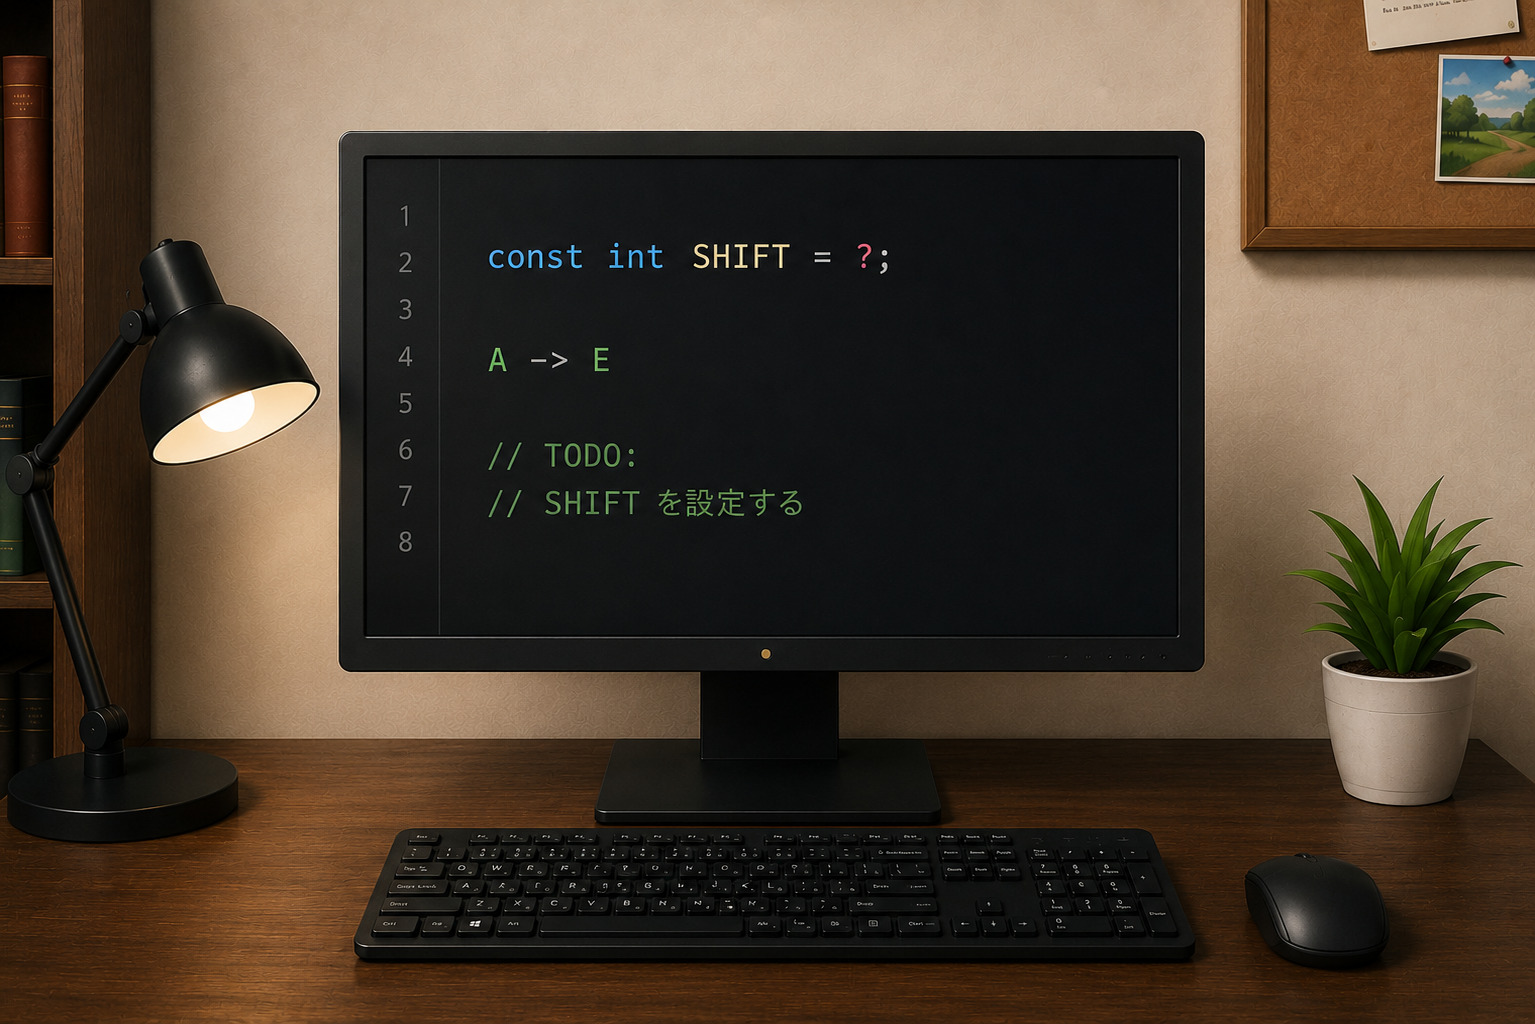
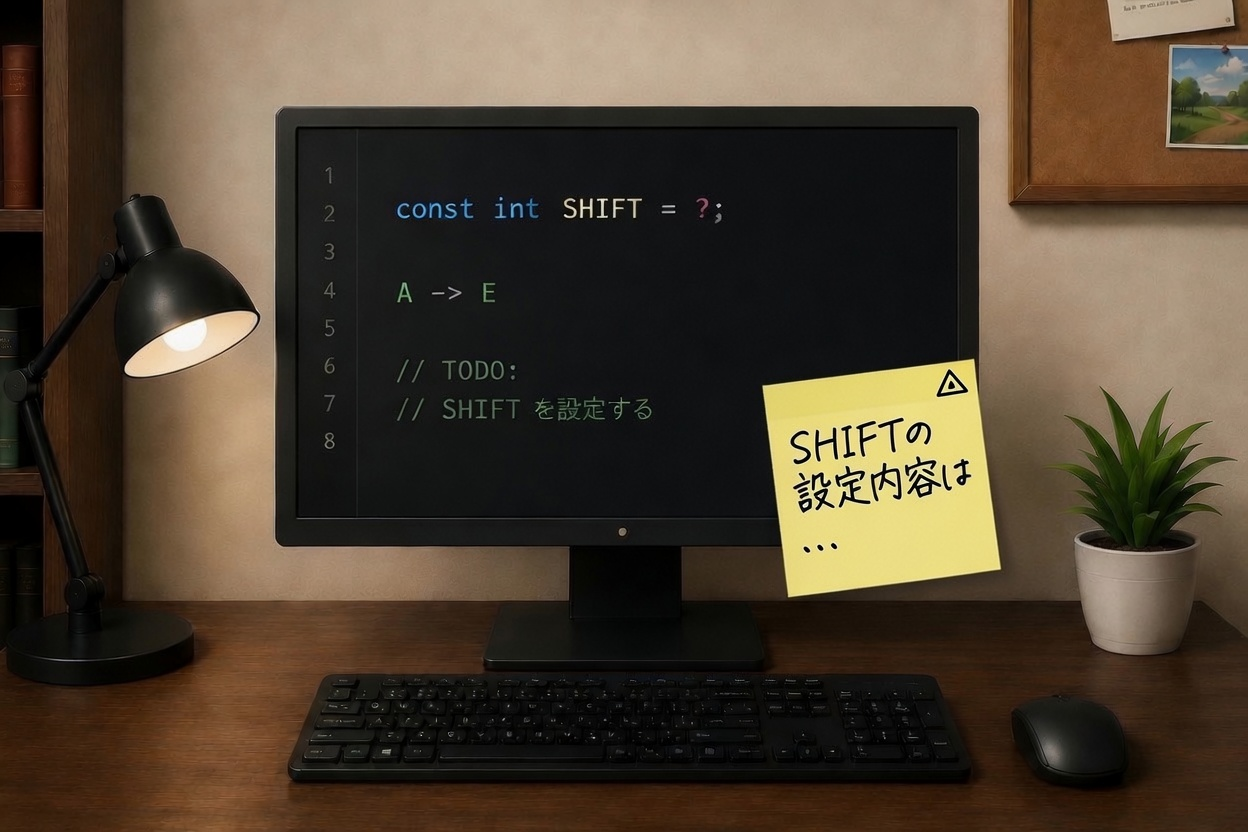
謎部分を追加

diff --git a/js/story.js b/js/story.js
@@ -16,6 +16,8 @@ let storyIndex = 0;
 function startGame() {
     preloadGameImages();
 
+    document.getElementById("startVoice").play();
+
     const startScreen = document.getElementById("startScreen");
     const storyScreen = document.getElementById("storyScreen");
   
@@ -30,7 +32,7 @@ function startGame() {
   
       storyIndex = 0;
       showStory();
-    }, 1200);
+    }, 2500);
 }
 
 function showStory() {
@@ -43,12 +45,16 @@ function showStory() {
   const right = document.getElementById("rightCharacter");
 
   if (data.leftImage) {
-    left.src = data.leftImage;
+    if (data.leftImage && left.src !== location.origin + "/" + data.leftImage) {
+        left.src = data.leftImage;
+    }
     left.classList.remove("hidden");
   }
 
   if (data.rightImage) {
-    right.src = data.rightImage;
+    if (data.rightImage && right.src !== location.origin + "/" + data.rightImage) {
+        right.src = data.rightImage;
+    }
     right.classList.remove("hidden");
   }
 
@@ -65,6 +71,26 @@ function showStory() {
 }
 
 function nextStory() {
+  if (currentEventStory) {
+    eventStoryIndex++;
+
+    if (eventStoryIndex >= currentEventStory.length) {
+      currentEventStory = null;
+
+      document.getElementById("storyScreen").classList.add("hidden");
+      document.getElementById("game").classList.remove("hidden");
+
+      if (afterEventStory) {
+        afterEventStory();
+        afterEventStory = null;
+      }
+
+      return;
+    }
+
+    showEventStory();
+    return;
+  }
     storyIndex++;
 
     if (storyIndex >= storyMessages.length) {
@@ -90,4 +116,48 @@ function nextStory() {
     }
   
     showStory();
+}
+
+let currentEventStory = null;
+let eventStoryIndex = 0;
+let afterEventStory = null;
+
+function startEventStory(storyId) {
+  currentEventStory = eventStories[storyId];
+  eventStoryIndex = 0;
+
+  afterEventStory = function() {
+    openPuzzle("circle1");
+  };
+
+  document.getElementById("game").classList.add("hidden");
+  document.getElementById("storyScreen").classList.remove("hidden");
+
+  showEventStory();
+}
+
+function showEventStory() {
+  const data = currentEventStory[eventStoryIndex];
+
+  document.getElementById("speakerName").textContent = data.speaker;
+  document.getElementById("storyMessage").textContent = data.text;
+
+  const left = document.getElementById("leftCharacter");
+  const right = document.getElementById("rightCharacter");
+
+  if (data.leftImage) {
+    left.src = data.leftImage;
+    left.classList.remove("hidden");
+  }
+
+  if (data.rightImage) {
+    right.src = data.rightImage;
+    right.classList.remove("hidden");
+  }
+
+  left.classList.remove("talking");
+  right.classList.remove("talking");
+
+  if (data.side === "left") left.classList.add("talking");
+  if (data.side === "right") right.classList.add("talking");
 }

diff --git a/js/data.js b/js/data.js
@@ -139,3 +139,45 @@ const storyMessages = [
         text: "それじゃがんばってね～"
     }
   ];
+
+//イベントデータ
+const eventStories = {
+    pcMemo: [
+      {
+        speaker: "ゴマニエル",
+        side: "left",
+        leftImage: "images/gimongoma.png",
+        text: "なんやこのメモ……？"
+      },
+      {
+        speaker: "トーコホッパー",
+        side: "right",
+        rightImage: "images/gimonhopper.png",
+        text: "これ、謎解きじゃない？"
+      },
+      {
+        speaker: "トーコホッパー",
+        side: "right",
+        rightImage: "images/hopper.png",
+        text: "ほら、裏になにか書いてあるよ！"
+      },
+    ]
+  };
+
+//謎データ
+const puzzles = {
+
+    circle1: {
+        image: "images/nazo1.png",
+        text: "4分の1に内接している長方形ABCDがある。Bが円の中心だとして長方形の対角線ACの長さは何センチか",
+        answer: "10"
+    },
+
+    password1: {
+        image: "images/password.png",
+        text: "4桁の数字を入力せよ。",
+        answer: "5910"
+    }
+
+};
+

diff --git a/style.css b/style.css
@@ -467,3 +467,45 @@ body {
 #tipsText {
   color: #ddd;
 }
+
+#answerArea{
+
+  margin-top:20px;
+
+  display:flex;
+  justify-content:center;
+  align-items:center;
+  gap:10px;
+}
+
+#answerInput{
+
+  width:250px;
+
+  padding:8px 12px;
+
+  font-size:20px;
+}
+
+#answerArea button{
+
+  padding:8px 18px;
+
+  font-size:18px;
+
+  cursor:pointer;
+}
+
+#modalMemoSpot {
+  position: absolute;
+
+  left: 60%;
+  top: 42%;
+
+  width: 250px;
+  height: 250px;
+
+  background: rgba(255,255,255,0.2);
+  border: 2px solid red;
+  cursor: pointer;
+}

diff --git a/js/puzzle.js b/js/puzzle.js
@@ -1,0 +1,29 @@
+let currentPuzzle = null;
+
+function openPuzzle(id){
+
+    currentPuzzle = puzzles[id];
+
+    showImage(
+        currentPuzzle.image,
+        currentPuzzle.text
+    );
+
+    document.getElementById("answerInput").value = "";
+}
+
+function checkAnswer(){
+
+    const input = document
+        .getElementById("answerInput")
+        .value
+        .trim();
+
+    if(input === currentPuzzle.answer){
+        alert("正解のようだ。回答の「10」は何かに使うのだろうか？");
+        closeModal();
+    }else{
+        alert("……答えが違うようだ");
+    }
+
+}

diff --git a/index.html b/index.html
@@ -65,10 +65,20 @@
 
   <div id="modal" class="hidden">
     <div id="modalBox">
+
         <button id="closeBtn" onclick="closeModal()">×</button>
+
         <img id="modalImage" src="" alt="">
+
+        <button
+            id="modalMemoSpot"
+            class="hidden"
+            onclick="clickPcMemo()">
+        </button>
+
+        <div id="modalText"></div>
     </div>
-</div>
+  </div>
 
   <script src="js/preload.js"></script>
   <script src="js/data.js"></script>
@@ -77,5 +87,11 @@
   <script src="js/firstroom.js"></script>
   <script src="js/story.js"></script>
   <script src="js/main.js"></script>
+  <script src="js/pc.js"></script>
+  <script src="js/puzzle.js"></script>
+
+  <audio id="startVoice" preload="auto">
+    <source src="voice/start.mp3" type="audio/mpeg">
+  </audio>
 </body>
 </html>

diff --git a/js/firstroom.js b/js/firstroom.js
@@ -19,11 +19,12 @@ function clickClock() {
 //PC
 function clickPC() {
     showImage("images/pc_keyboard.jpg");
-}
+    document.getElementById("modalMemoSpot").classList.remove("hidden");
+  }
 
 //箱
 function clickBox() {
-    showImage("images/lock_box.jpg");
+    showImage("images/nazo2.jpg");
 }
 
 //ドア
@@ -35,3 +36,13 @@ function clickDoor() {
 function clickSyodana() {
     showImage("images/warning_goma_shodana.png");
 }
+
+function clickMemo(){
+    openPuzzle("circle1");
+}
+
+function showPcView() {
+    showImage("images/pc_keyboard.jpg", "PCの画面だ。メモが貼られている。");
+  
+    document.getElementById("modalMemoSpot").classList.remove("hidden");
+  }

diff --git a/js/modal.js b/js/modal.js
@@ -9,14 +9,20 @@
 ====================================
 */
 
-function showImage(imagePath) {
+let currentAnswer = "";
+
+function showImage(imagePath,text=""){
+
     document.getElementById("modalImage").src = imagePath;
+    document.getElementById("modalText").textContent = text;
+
     document.getElementById("modal").classList.remove("hidden");
-  }
+}
   
 function closeModal() {
     document.getElementById("modal").classList.add("hidden");
-}
+    document.getElementById("modalMemoSpot").classList.add("hidden");
+  }
 
 function openReleaseNotes() {
     document.getElementById("releaseNotes").classList.remove("hidden");

diff --git a/js/pc.js b/js/pc.js
@@ -1,0 +1,8 @@
+function showPcView() {
+    showImage("images/pc_keyboard.jpg", "PCの画面だ。メモが貼られている。");
+  }
+  
+  function clickPcMemo() {
+    closeModal();
+    startEventStory("pcMemo");
+  }